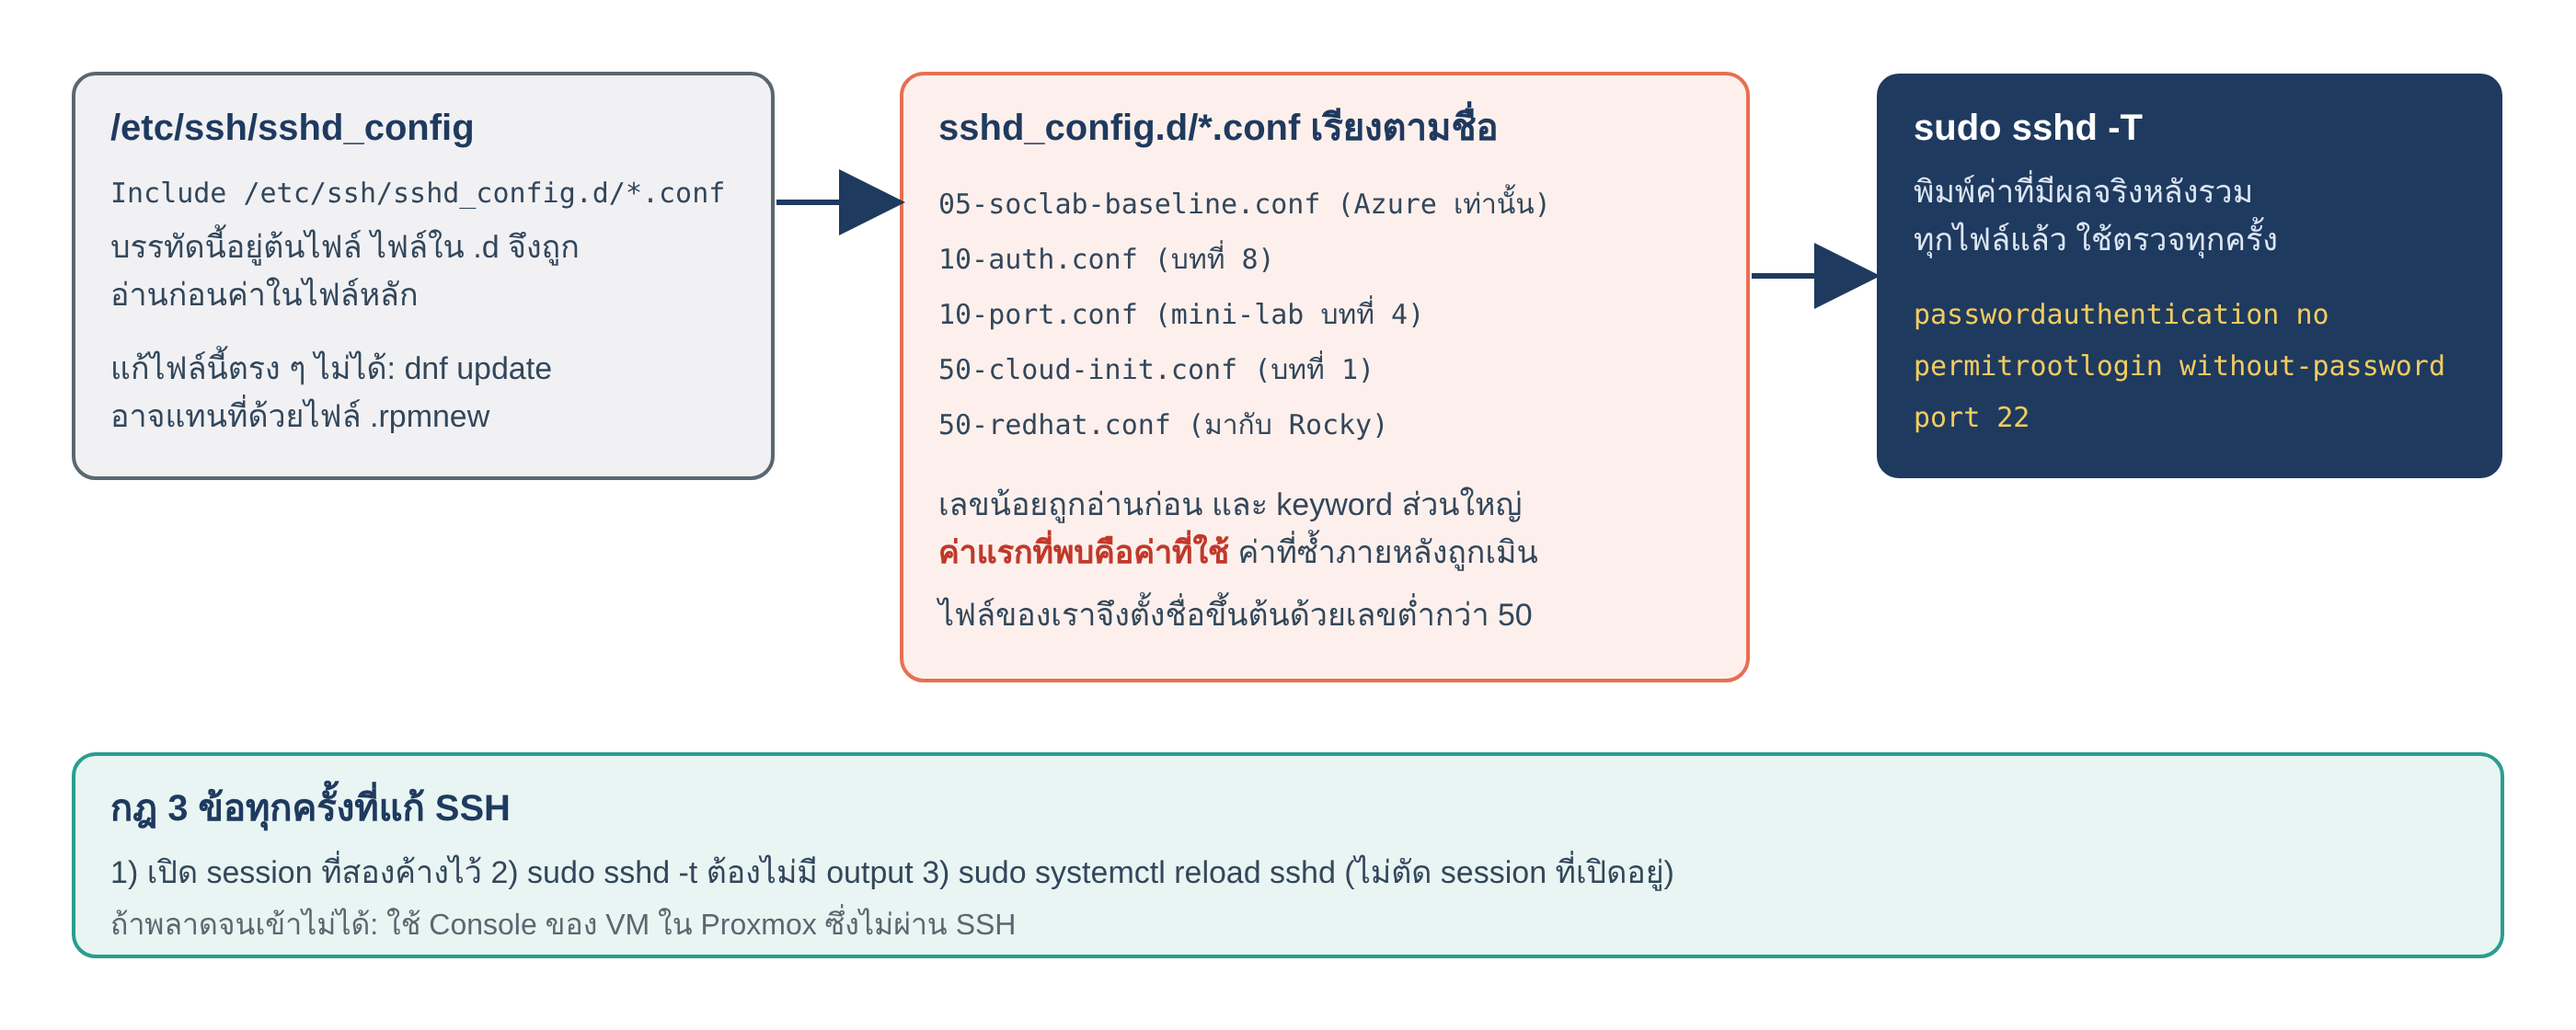
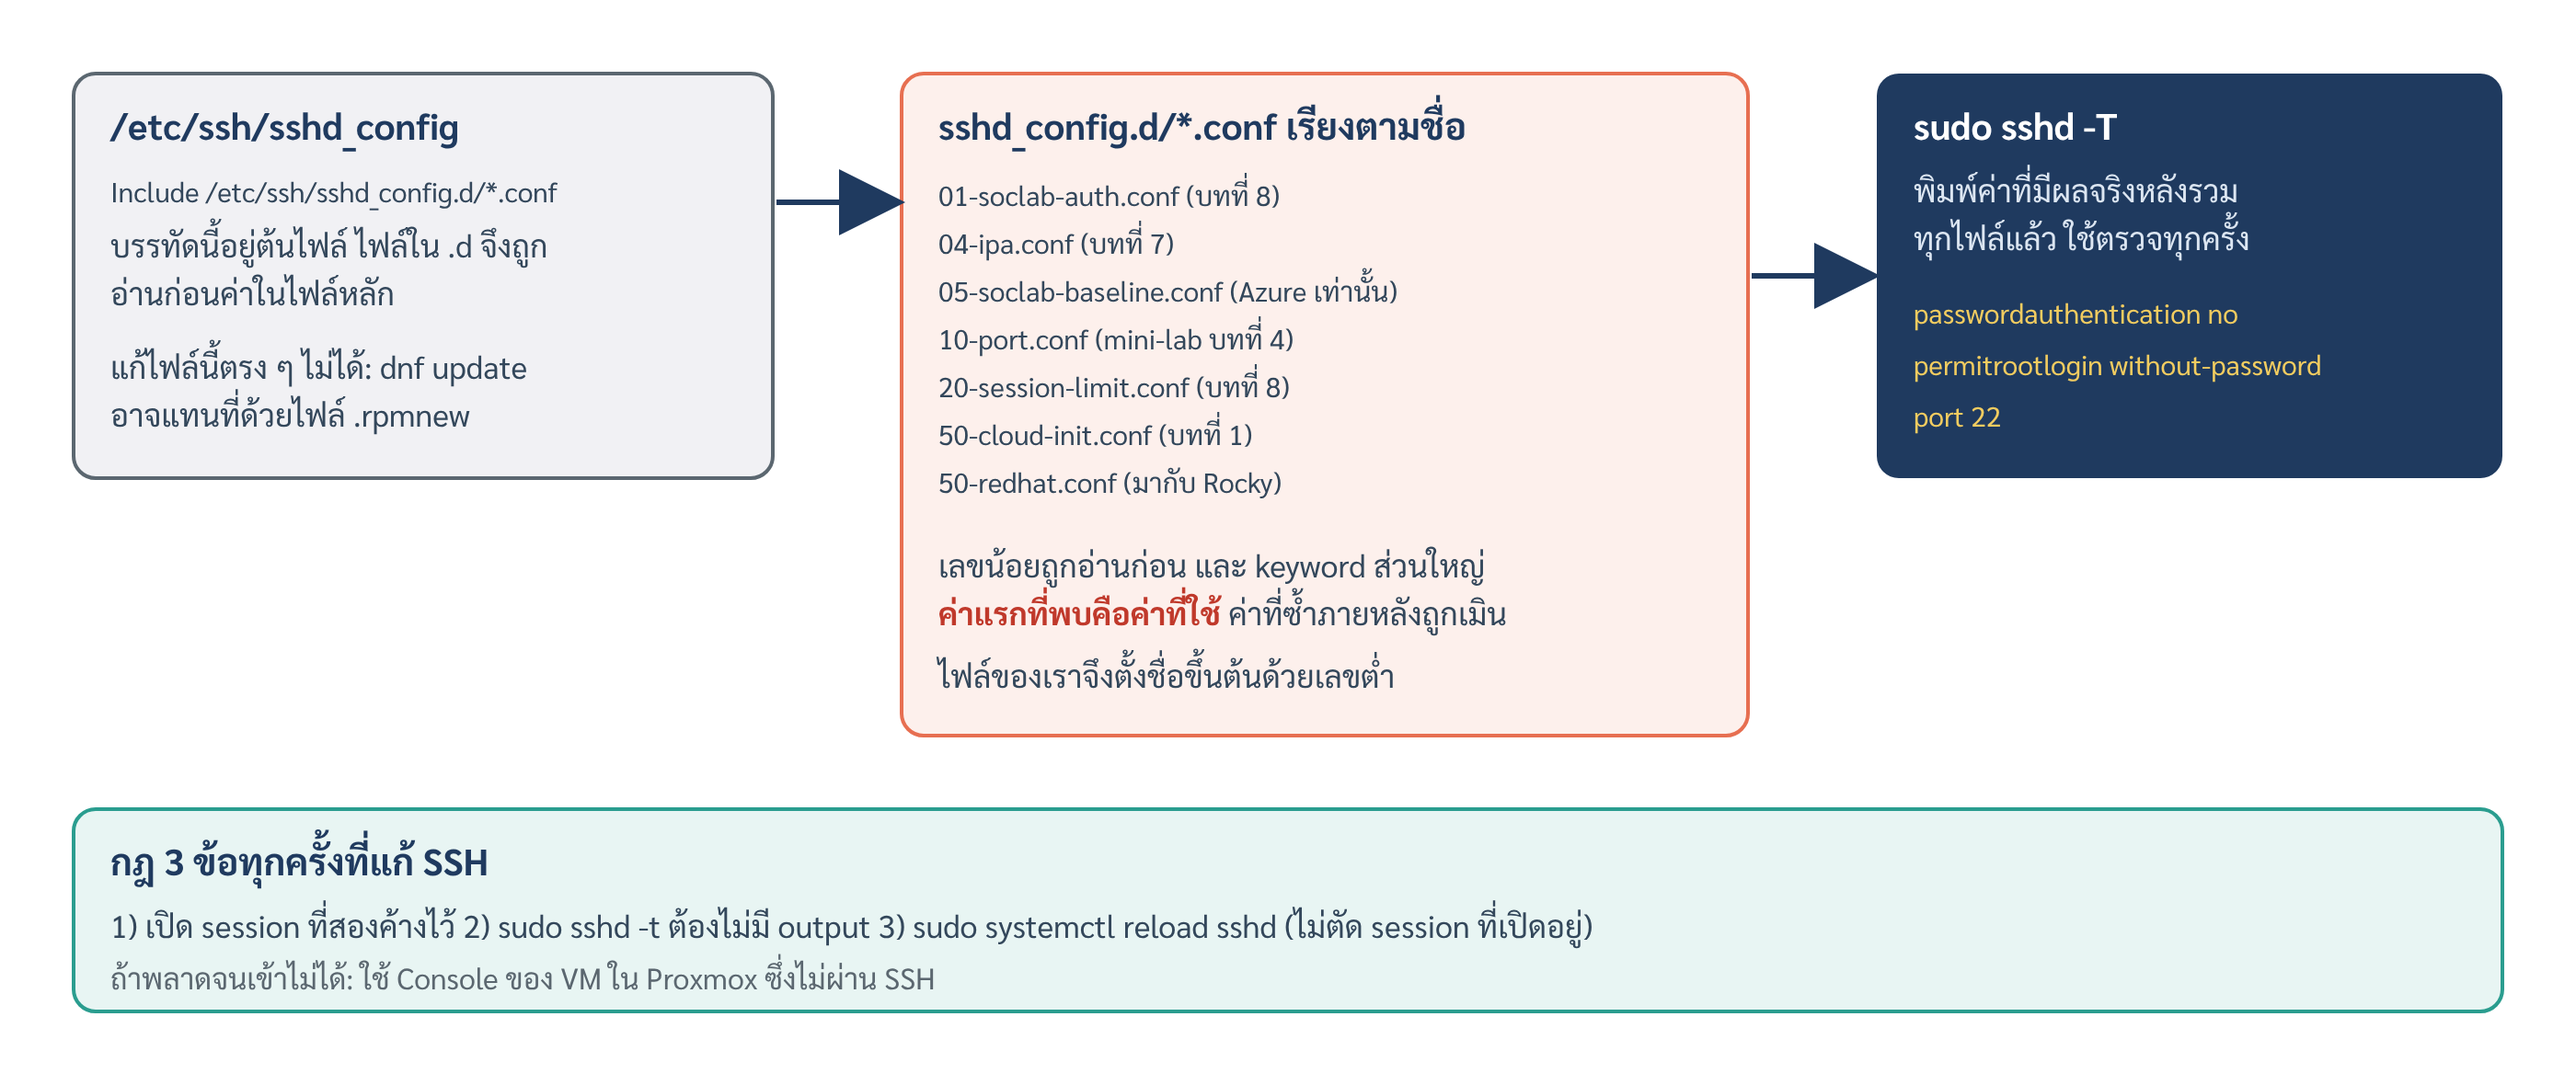
ภาค 2: บทที่ 5–8 ฉบับเต็ม (diagram, check script, ไฟล์ config)
- ch06/ch07/ch08 check scripts และไฟล์ config ใน files/
- บทที่ 8 ใช้ 01-soclab-auth.conf เพื่อชนะ 04-ipa.conf (keyboard-interactive)
- ปรับ diagram บทที่ 2 ให้แสดงลำดับไฟล์ใหม่

Claude-Session: https://claude.ai/code/session_018Y2sWJ9nv9idmCPYgdqBFx

diff --git a/ch08-ssh-hardening/files/README.md b/ch08-ssh-hardening/files/README.md
@@ -1,0 +1,10 @@
+# ไฟล์ config ของบทที่ 8
+
+สำเนาของไฟล์ที่บทที่ 8 สร้างด้วย `sudo tee FILE <<'EOF'` จัดตาม path จริงบนเครื่อง ใช้เทียบเมื่อพิมพ์ผิด หรือคัดลอกไปวางแทนการพิมพ์ (ตรวจค่าเฉพาะเครื่อง เช่น IP และชื่อโดเมนก่อนใช้)
+
+| ไฟล์ใน repo | ตำแหน่งบนเครื่อง | หมายเหตุ |
+| --- | --- | --- |
+| `files/etc/ssh/sshd_config.d/01-soclab-auth.conf` | `/etc/ssh/sshd_config.d/01-soclab-auth.conf` | |
+| `files/etc/ssh/sshd_config.d/20-session-limit.conf` | `/etc/ssh/sshd_config.d/20-session-limit.conf` | |
+| `files/etc/security/limits.d/90-maxlogins.conf` | `/etc/security/limits.d/90-maxlogins.conf` | |
+| `files/etc/profile.d/tmout.sh` | `/etc/profile.d/tmout.sh` | |

diff --git a/ch06-users-groups/files/README.md b/ch06-users-groups/files/README.md
@@ -1,0 +1,9 @@
+# ไฟล์ config ของบทที่ 6
+
+สำเนาของไฟล์ที่บทที่ 6 สร้างด้วย `sudo tee FILE <<'EOF'` จัดตาม path จริงบนเครื่อง ใช้เทียบเมื่อพิมพ์ผิด หรือคัดลอกไปวางแทนการพิมพ์ (ตรวจค่าเฉพาะเครื่อง เช่น IP และชื่อโดเมนก่อนใช้)
+
+| ไฟล์ใน repo | ตำแหน่งบนเครื่อง | หมายเหตุ |
+| --- | --- | --- |
+| `files/etc/security/pwhistory.conf` | `/etc/security/pwhistory.conf` | |
+| `files/etc/security/pwquality.conf.d/10-lab.conf` | `/etc/security/pwquality.conf.d/10-lab.conf` | |
+| `files/etc/security/faillock.conf` | `/etc/security/faillock.conf` | หัวข้อ 6.3.1 |
